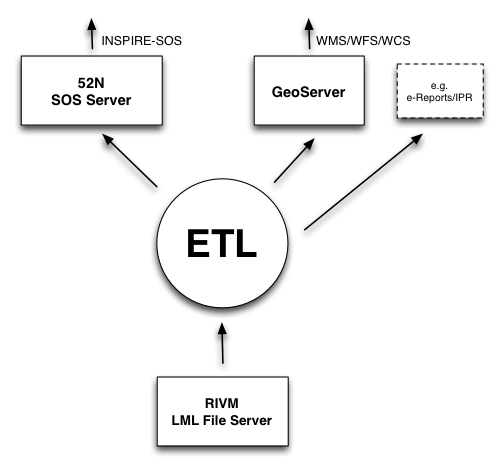
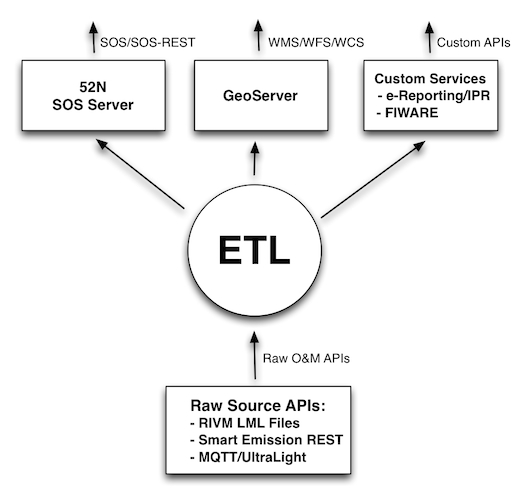
update doc smartem

Changed region(s): [[0.2381, 0.0297, 0.9821, 0.9809], [0.0298, 0.0297, 0.3869, 0.327]]

diff --git a/www/heronviewer/config/Layout.js b/www/heronviewer/config/Layout.js
@@ -77,36 +77,17 @@ Heron.layout = {
             id: 'hr-menu-left-container',
             layout: 'accordion',
             region: "west",
-            width: 260,
+            width: 268,
             collapsible: true,
             border: false,
             items: [
                 {
-                    xtype: 'hr_activethemespanel',
-                    title: 'Active Layers',
-                    contextMenu: 'defaults',
-                    collapsed: true,
-
-                    hropts: {
-                        // Defines the custom components added with the standard layer node.
-                        showOpacity: true, // true - layer opacity icon / function
-                        showTools: false, // true - layer tools icon / function (not jet completed)
-                        showRemove: false        // true - layer remove icon / function
-                    }
-                },
-                {
-                    xtype: 'hr_layertreepanel',
-                    // Optional, use internal default if not set
-                    contextMenu: 'defaults',
-                    hropts: Heron.options.layertree,
-                    collapsed: false
-                },
-                {
                     xtype: 'hr_gxplayerpanel',
                     id: 'gxplayerpanel',
-                    collapsed: true,
-                    border: false,
-                    title: 'Add Layers from Catalogs',
+                    border: true,
+                    autoScroll: false,
+                    collapsed: false,
+                    title: 'Layer Management',
 //                    header: false,
 //                    width: 240,
                     tbar: [], // we will add buttons to "gxplayerpanel.bbar" later
@@ -129,7 +110,7 @@ Heron.layout = {
                         {
                             ptype: "gxp_addlayers",
                             actionTarget: "gxplayerpanel.tbar",
-//                            addActionText: __('Add layers'),
+                            // addActionText: __('Add layers'),
                             templatedLayerGrid: true,
                             layerGridWidth: 440,
                             layerGridHeight: 600,
@@ -153,13 +134,13 @@ Heron.layout = {
 //                            ptype: "gxp_removelayer",
 //                            actionTarget: "layertree.contextMenu"
 //                        },
-                        {
-                            ptype: "gxp_layerproperties",
-                            outputConfig: {defaults: {autoScroll: true}, width: 400, autoHeight: true},
-                            actionTarget: ["gxplayerpanel.tbar"]
-                            //                    actionTarget: ["layertree.contextMenu"]
-                            //                    outputTarget: "layertree"
-                        },
+//                        {
+//                            ptype: "gxp_layerproperties",
+//                            outputConfig: {defaults: {autoScroll: true}, width: 400, autoHeight: true},
+//                            actionTarget: ["gxplayerpanel.tbar"]
+//                            //                    actionTarget: ["layertree.contextMenu"]
+//                            //                    outputTarget: "layertree"
+//                        },
                         {
                             ptype: "gxp_styler",
                             outputConfig: {autoScroll: true, width: 320},
@@ -253,6 +234,31 @@ Heron.layout = {
                             fullMetadataUrlTpl: 'http://www.nationaalgeoregister.nl/geonetwork/srv/dut/search?uuid={id}',
                             title: "Nationaal Georegister"
                         }
+                    },
+                    items: [
+                        {
+                            xtype: 'hr_layertreepanel',
+                            // Optional, use internal default if not set
+                            title: null,
+                            border: false,
+                            autoScroll: true,
+                            contextMenu: 'defaults',
+                            hropts: Heron.options.layertree,
+                            collapsed: false
+                        }
+                    ]
+                },
+                {
+                    xtype: 'hr_activethemespanel',
+                    title: 'Active Layers',
+                    contextMenu: 'defaults',
+                    collapsed: true,
+
+                    hropts: {
+                        // Defines the custom components added with the standard layer node.
+                        showOpacity: true, // true - layer opacity icon / function
+                        showTools: false, // true - layer tools icon / function (not jet completed)
+                        showRemove: false        // true - layer remove icon / function
                     }
                 },
                 {

diff --git a/src/smartem/sensorrestinput.py b/src/smartem/sensorrestinput.py
@@ -1,0 +1,60 @@
+# -*- coding: utf-8 -*-
+#
+# SensorRestInput: harvest raw timeseries from CityGIS Sensor REST API.
+# Use PostGIS DB to track progress of harvesting.
+#
+# Author:Just van den Broecke
+
+from stetl.util import Util
+from stetl.inputs.httpinput import HttpInput
+from stetl.packet import FORMAT
+from stetl.postgis import PostGIS
+
+
+log = Util.get_log("SensorRestInput")
+
+class SensorRestInput(HttpInput):
+    """
+    RIVM LML version for HttpInput: adds check for each file if it is already in DB.
+    """
+    def __init__(self, configdict, section, produces=FORMAT.record):
+        HttpInput.__init__(self, configdict, section, produces)
+        self.query = self.cfg.get('query')
+        self.db = None
+
+    def init(self):
+        # Connect only once to DB
+        log.info('Init: connect to DB')
+        self.db = PostGIS(self.cfg.get_dict())
+        self.db.connect()
+
+        # Let superclass read file list from Apache URL
+        HttpInput.init(self)
+
+    def exit(self):
+        # Disconnect from DB when done
+        log.info('Exit: disconnect from DB')
+        self.db.disconnect()
+
+    def no_more_files(self):
+        return self.file_index == len(self.file_list) - 1
+
+    def filter_file(self, file_name):
+        """
+        Filter the file_name, e.g. to suppress reading if already present in DB.
+        :param file_name:
+        :return string or None:
+        """
+        if file_name is None or file_name == 'actueel.xml':
+            return None
+
+        # Populate and execute SELECT query for file_name
+        query = self.query % file_name
+        rowcount = self.db.execute(query)
+        if rowcount > 0:
+            log.info('file %s already present' % file_name)
+            return None
+
+        # Not yet present
+        return file_name
+

diff --git a/docs/smartemission.rst b/docs/smartemission.rst
@@ -173,26 +173,27 @@ ETL Design
 ==========
 
 In this section the ETL is elaborated in more detail as depicted in the figure below.
-Figure 3 sketches the approach for RIVM LML AQ data, but this same approach was used voor Smart Emission.
-Also here: for "RIVM LML File Server" one should read:
-"Raw Smart Emission Sample Data". Step 2 and Step 3 are identical, an advantage of the multi-step ETL process now pays back!
-Step 1 (File Harvester) was performed more manually, awaiting a similar automated approach.
+Figure 3 sketches the same approach as earlier used for for RIVM LML AQ data.
+Step 1 and Step 2 are (partly) different from the RIVM LML ETL.
+Step 3 is identical to the RIVM LML ETL, an advantage of the multi-step ETL process now pays back!
+The main difference/extension to RIVM LML ETL processing is that the Smart Emission raw O&M data is
+not yet validated (e.g. has outliers) and aggregated (e.g. no hourly averages).
 
-.. figure:: _static/sospilot-arch1.jpg
+.. figure:: _static/smartem/etl-arch-smartem-1.jpg
    :align: center
 
    *Figure 3 - Overall Architecture with ETL Steps*
 
 The ETL design comprises three main processing steps and three datastores. The three ETL Steps are:
 
-#. File Harvester: manually (for now) via FTP
-#. AQ ETL: transform this local source data to intermediate "Core AQ Data" in PostGIS
+#. O&M Harvester: fetch raw O&M data from CityGIS server via Sensor REST API
+#. Refine ETL: validate and aggregate the raw O&M data and transform to intermediate "Core AQ Data" in PostGIS
 #. SOS ETL: transform and publish "Core AQ Data" to the 52N SOS DB via SOS-Transactions (SOS-T)
 
 The detailed dataflow from source to destination is as follows:
 
-#. AQ raw (text) files are placed on the file system (awaiting automated approach)
-#. The AQ ETL process (``files2measurements``) reads these files Core AQ DB (Raw Measurements)
+#. raw O&M timeseries data is read by the `O&M Harvester`  via Sensor REST API
+#. `O&M Harvester` reads the timeseries response docs into the Raw O&M Data DB (Raw Measurements)
 #. The Core AQ DB contains measurements + stations in regular tables 1-1 with original data, including a Time column
 #. The Core AQ DB can be used for OWS (WMS/WFS) services via GeoServer (using VIEW by Measurements/Stations JOIN)
 #. The SOS ETL process transforms core AQ data to SOS Observations and publishes Observations using SOS-T ``InsertObservation``
@@ -200,7 +201,7 @@ The detailed dataflow from source to destination is as follows:
 #. Each process always knows its progress and where it needs to resume, even after it has been stopped (by storing a progress/checkpoint info)
 
 These last two ETL processes manage their ``last sync-time`` using a separate ``progress table`` within the database.
-The first (Harvester) only needs to check if a particular file (as they have a unique file name) has already been stored.
+The first, the `O&M Harvester`, only needs to check if a particular timeseries for a specific device has already been stored.
 
 Advantages of this approach:
 

diff --git a/docs/data.rst b/docs/data.rst
@@ -5,12 +5,12 @@ Data Management
 ===============
 
 This chapter describes all technical aspects related to data within the SOSPilot project. The "data"
-as mentioned here is all related to LML RIVM data, i.e. Dutch Air Quality Data.  In 2015 this setup was
+as mentioned here applied initially to LML RIVM data, i.e. Dutch Air Quality Data.  In 2015 this setup was
 also used to handle air quality data from the `Smart Emission (Nijmegen) project <http://www.ru.nl/gpm/onderzoek/research-projects/smart-emission/>`_.
 This is described in a separate chapter: :ref:`smartemission`.
 
-* obtaining raw source data: measurements, stations etc.
-* data transformation (ETL) for various (OWS) services, INSPIRE and E-reporting
+* obtaining raw source data: observations&measurements (O&M), metadata (stations etc).
+* data transformation (ETL) to target various (OWS) services, INSPIRE, E-reporting and custom services
 * tooling (databases and ETL-tools) for the above
 
 Source code for data management and ETL can be found in GitHub: https://github.com/Geonovum/sospilot/tree/master/src
@@ -20,23 +20,26 @@ Architecture
 
 Figure 1 sketches the overall SOSPilot architecture with emphasis on the flow of data (arrows).
 Circles depict harvesting/ETL processes. Server-instances are in rectangles. Datastores
-the "DB"-icons.
+are shown with "DB"-icons.
 
 .. figure:: _static/sospilot-arch0.jpg
    :align: center
 
    *Figure 1 - Overall Architecture*
 
-The main challenge/flow of data is from raw XML files with Air Quality data provided by the RIVM LML server.
-This server provides a directory of XML files with hourly measurements of the past month.
+The main challenge/flow of data is from `Raw Source APIs` such as raw XML files with Air Quality data provided by the RIVM LML server.
+In a later stage of the project this architecture was reused for other raw O&M sources such as
+the CityGIS Sensor REST API in the Smart Emission project (see :ref:`smartemission`).
+
+The RIVM LML file server provides a directory of XML files with hourly measurements of the past month.
 The big circle "ETL" embeds the data transformation processes and storage that is required to
-deliver OGC services for WMS, WFS and SOS and at a later stage (dashed rectangle)
-for EU IPR-complied E-reporting.
+deliver OGC services for WMS, WFS (via `GeoServer`) and SOS (via the `52 North SOS Server`)
+and other `Custom Services` at a later stage (dashed rectangle) such as EU IPR-compliant E-reporting.
 
 ETL Design
 ==========
 
-In this section the ETL is elaborated in more detail as depicted in the figure below.
+In this section the ETL as used for RIVM LML data is elaborated in more detail as depicted in the figure below.
 
 .. figure:: _static/sospilot-arch1.jpg
    :align: center
